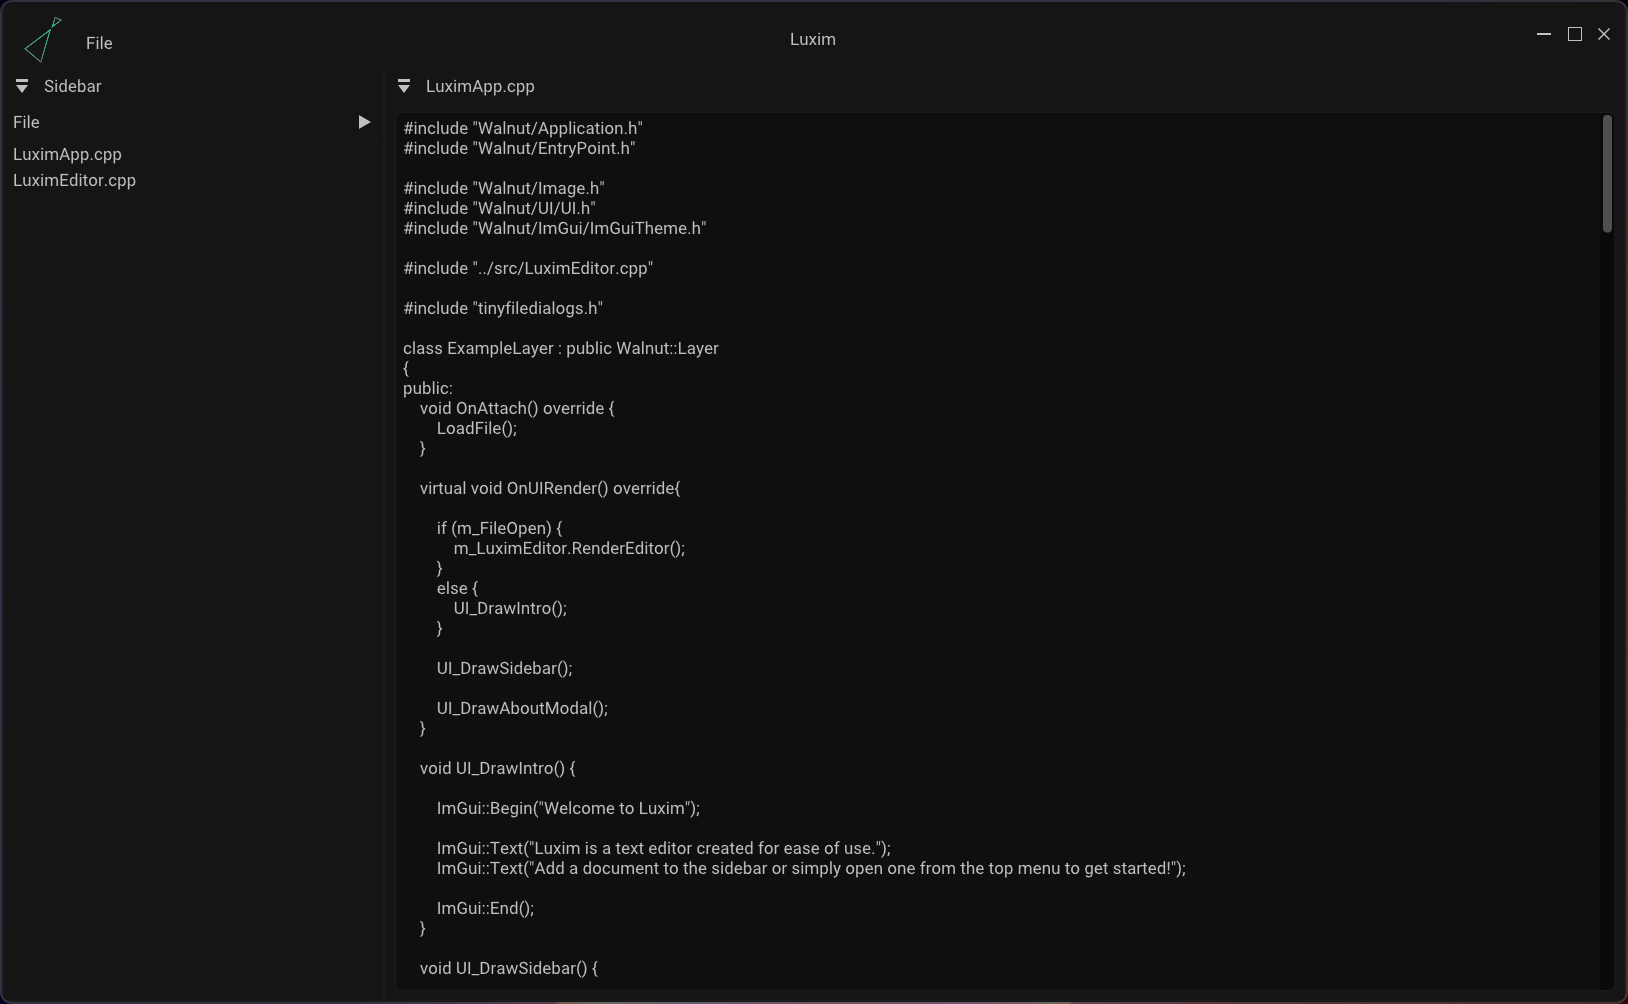
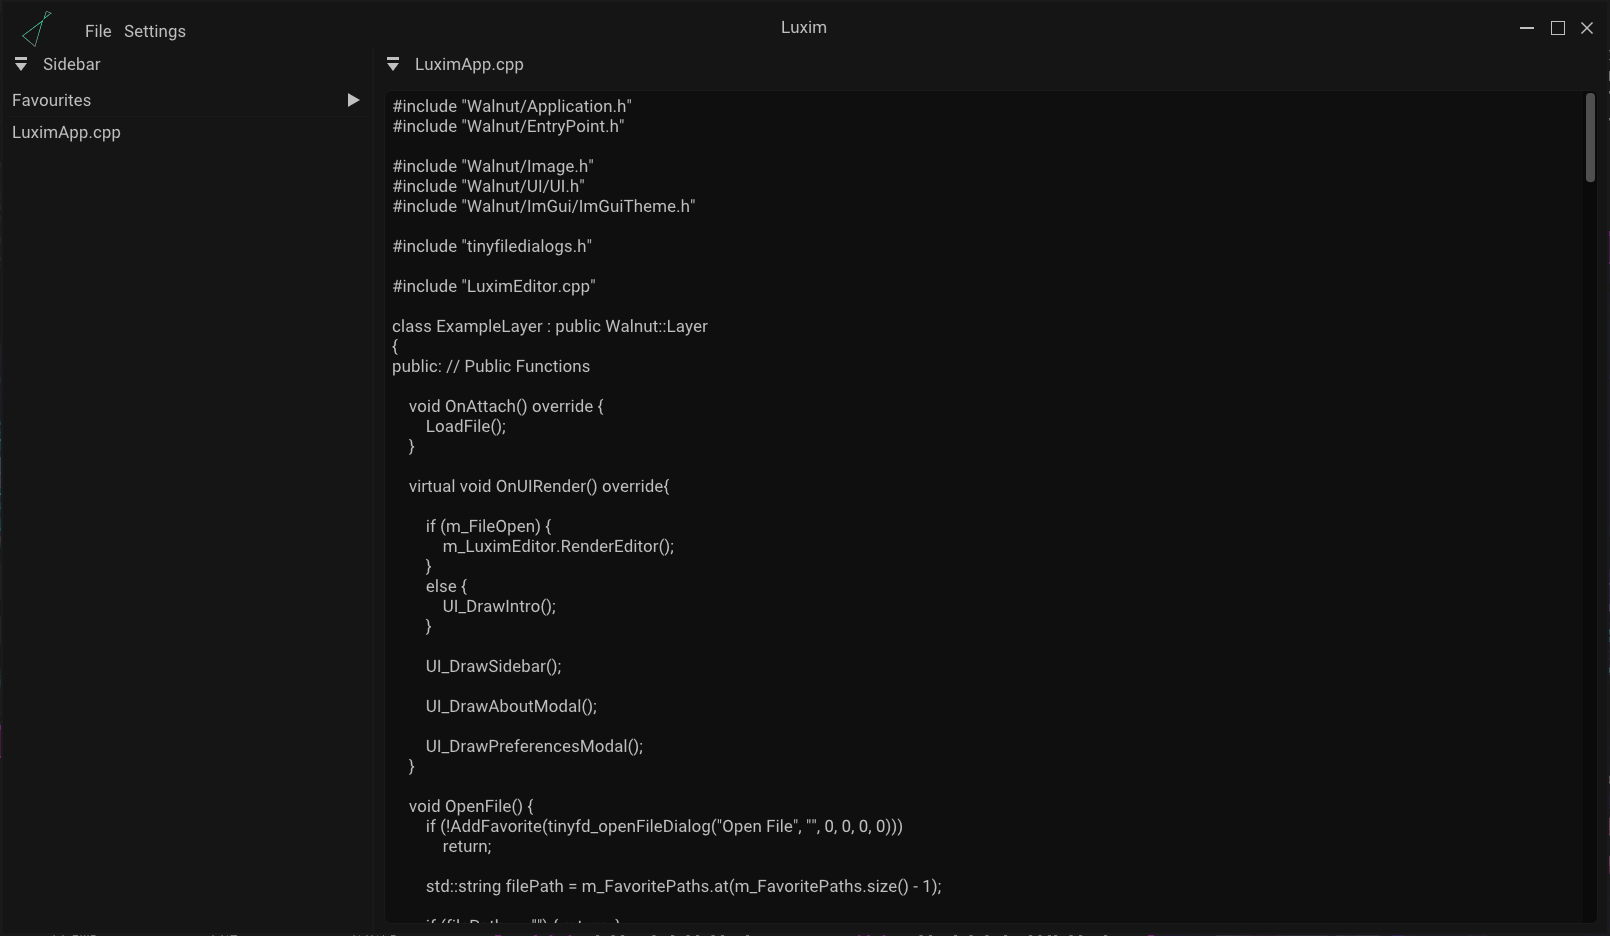
Updated readme and Preview Images

diff --git a/README.md b/README.md
@@ -2,7 +2,11 @@
 
 Luxim is the text editor made for ease of use. Add favourite files to your sidebar, re-order them for accessibility and open them with a click of a button. Luxim is made using the [Walnut Framework](https://github.com/StudioCherno/Walnut), making it simple, elegant and pretty performant.
 
-<img src="https://github.com/Zentifyyy/Luxim/blob/master/LuximPreview.png?raw=true" width="300">
+
+<p align="middle">
+    <img src="https://github.com/Zentifyyy/Luxim/blob/master/LuximPreview.png?raw=true" width="350">
+    <img src="https://github.com/Zentifyyy/Luxim/blob/master/LuximPreview2.png?raw=true" width="350">
+</p>
 
 ### Features
 - File Opening, File Creation Editing and saving (Obviously).
@@ -11,6 +15,7 @@ Luxim is the text editor made for ease of use. Add favourite files to your sideb
 - Tab / Window docking, made possible by [Dear ImGui](https://github.com/ocornut/imgui).
 - Persistant sidebar with list of favourite files which you can personalise the order of.
 - Custom titlebar with themed titlebar buttons, made using the [Walnut Framework](https://github.com/StudioCherno/Walnut).
+- Now with preferences and automatic file saving.
 
 
 ## Getting Started
@@ -41,5 +46,3 @@ git clone --recursive https://github.com/Zentifyyy/Luxim.git
 - [stb_image](https://github.com/nothings/stb)
 - [GLM](https://github.com/g-truc/glm)
 - [libtinyfiledialogs](https://github.com/IamtheMZI/libtinyfiledialogs)
-
-[def]: ttps://imgur.com/Dmj9co
